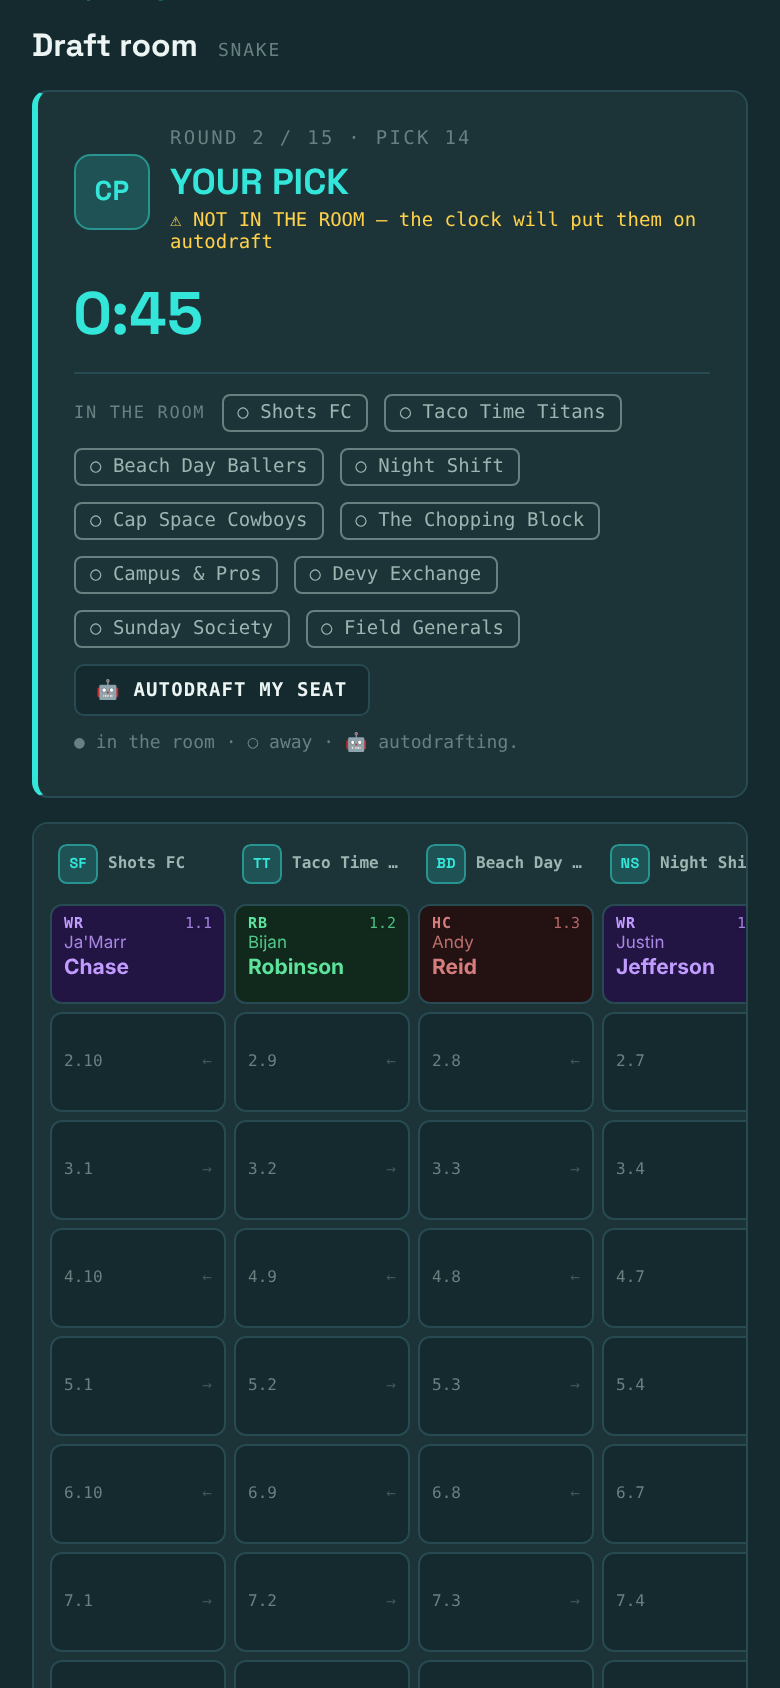
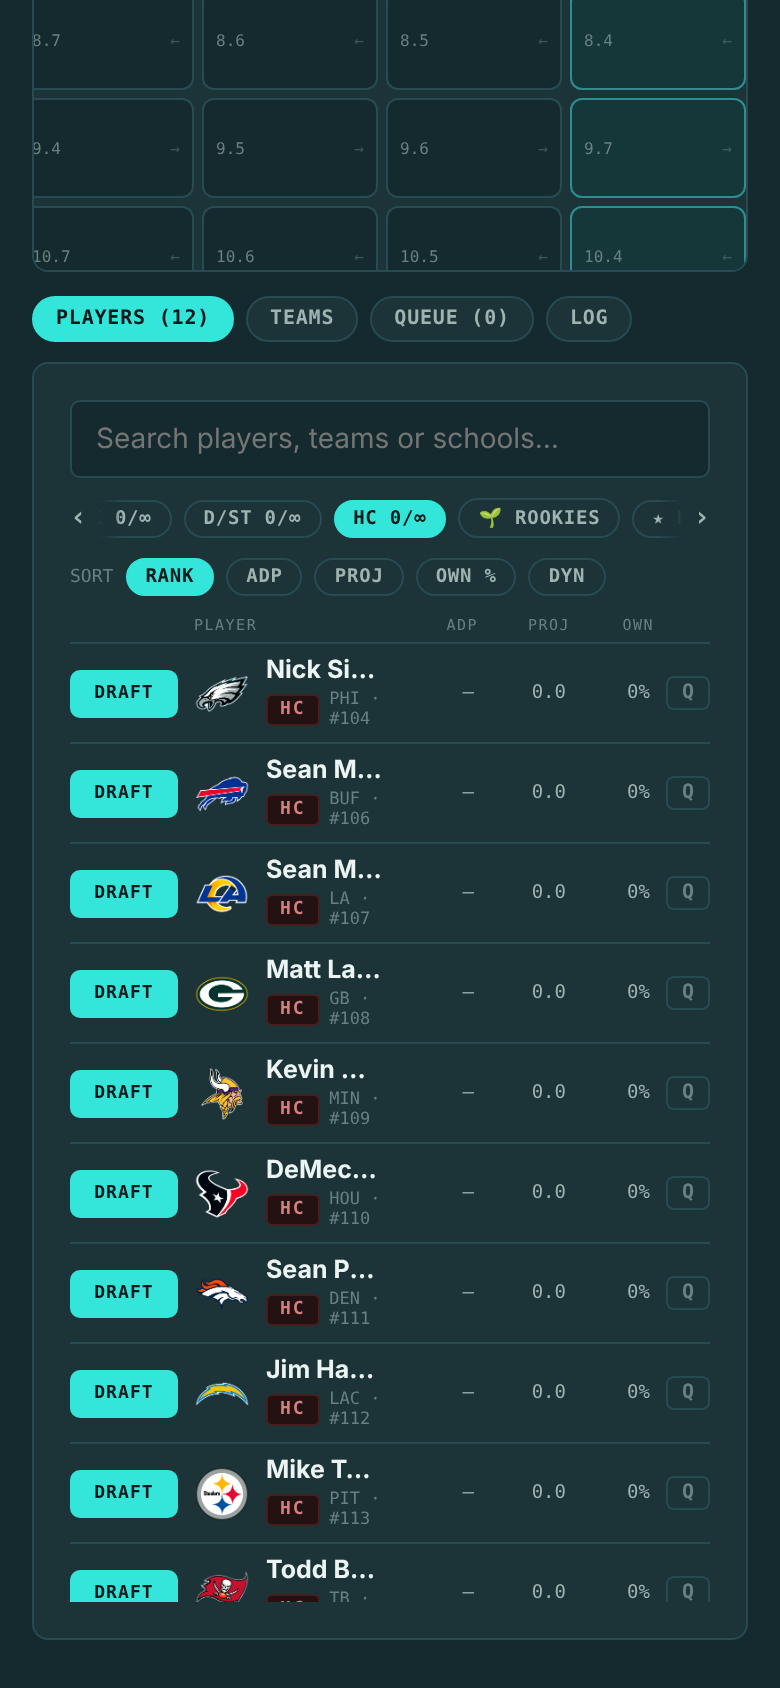
v0.650.3: the funnel's screens are the game, not the settings (#1156)
Founder's list, slot by slot: matchup boards for the redraft, full-college,
mixed-college, golf, Bullseye and best-ball-mix slots; the cap sheet for
contracts; the devy market; the vampire's feeding log; the chop report;
a lineup with an NFC Only spot and a rookie-only superflex that fills
itself; the draft room filtered to head coaches. Scoped bonuses unchanged.

Still stand-ins, shot from this build's web app at phone size against
fixture data (a classic ten-team league on a pre-kick week 5). No real
league was touched; the founder's app screenshots replace them file for
file. The README's table says what each one shows.

Claude-Session: https://claude.ai/code/session_01Ra1P2uYs7L1wujHxgAdth4

diff --git a/packages/core/src/version.ts b/packages/core/src/version.ts
@@ -2,7 +2,7 @@
 // Versioning: 3-part semver, pre-1.0. Bump patch per deploy (0.10.1, 0.10.2…),
 // minor for bigger features (0.11, 0.12…). Segments aren't capped at 9, so 1.0
 // is a deliberate choice, not an automatic rollover.
-export const APP_VERSION = 'v0.650.2';
+export const APP_VERSION = 'v0.650.3';
 
 // Stat data + 2025 NFL play-by-play powering this game comes from Stathead.
 export const DATA_SOURCE = { name: 'Stathead', url: 'https://stathead.app' };

diff --git a/public/brand/funnel/README.md b/public/brand/funnel/README.md
@@ -2,7 +2,7 @@
 
 Phone screenshots for the landing's feature cards (v0.650.0).
 
-**What's here now (v0.650.1) are stand-ins**: the same screens shot from the
+**What's here now (v0.650.3) are stand-ins**: the in-game screens shot from the
 web app at phone size against fixture data, until the founder's app
 screenshots replace them. Overwrite file for file; the names are fixed. Each card
 rotates through its files; a file that isn't here yet shows as a labelled
@@ -16,19 +16,19 @@ frame hides nothing that matters.
 
 | File | Card | Show |
 |---|---|---|
-| `league-redraft.png` | League types | A redraft league's settings or draft board |
-| `league-contract.png` | League types | A contract league: salaries and terms under the cap |
-| `league-full-college.png` | League types | An all-college league (a college roster or player pool) |
-| `league-mixed-college.png` | League types | A mixed NFL + college roster |
-| `league-devy-market.png` | League types | The devy market: shares and prices |
-| `mode-vampire.png` | Competitive modes | A vampire league: the fang on a team, or a bite |
-| `mode-guillotine.png` | Competitive modes | The guillotine panel: who's on the block |
-| `mode-golf.png` | Competitive modes | A golf league's standings (lowest wins) |
-| `mode-bullseye.png` | Competitive modes | A bullseye matchup: the targets and your distance from them |
-| `positions-scoped.png` | Positions | The roster builder with a scoped, named spot ("one rookie WR", "a Cowboy") |
-| `positions-hc-draft.png` | Positions | A draft with head coaches on the board |
-| `scoring-bestball-mix.png` | Scoring options | A lineup mixing best-ball spots and hand-set (non-roster) spots |
-| `scoring-scoped-bonuses.png` | Scoring options | The scoped-bonuses screen |
+| `league-redraft.png` | League types | The classic matchup board, a redraft league |
+| `league-contract.png` | League types | The cap sheet: every deal, its salary and years, under the cap |
+| `league-full-college.png` | League types | A matchup board where every spot is a college player, Saturday games |
+| `league-mixed-college.png` | League types | An NFL matchup board with two college spots beside the nine |
+| `league-devy-market.png` | League types | The devy market: prices, stakes, and BUY |
+| `mode-vampire.png` | Competitive modes | The vampire's feeding log: each win and the bite it earned |
+| `mode-guillotine.png` | Competitive modes | The chop report: one finished week on the block, who fell |
+| `mode-golf.png` | Competitive modes | A golf matchup board: LOW WINS, every starter projected near zero |
+| `mode-bullseye.png` | Competitive modes | A bullseye matchup board: the target per spot and the distance from it |
+| `positions-scoped.png` | Positions | A lineup with an NFC Only spot and a rookie-only superflex that fills itself |
+| `positions-hc-draft.png` | Positions | The draft room with the pool filtered to head coaches |
+| `scoring-bestball-mix.png` | Scoring options | A matchup board mixing best-ball spots (AUTO) with hand-set ones |
+| `scoring-scoped-bonuses.png` | Scoring options | Scoring → Adjustments: the scoped bonuses |
 
 The matchup card rotates the site's existing drip and classic screens in
 `public/brand/` (`shot-drip-live.png`, `shot-sealed.jpg`, `shot-duel.png`,

diff --git a/STATUS.md b/STATUS.md
@@ -22,6 +22,26 @@ Near-daily (git shows daily bursts; season launch Sep 9 is the forcing function)
 
 ## Last worked (superseded entries below)
 
+### v0.650.3 — the funnel's screens are the game, not the settings
+
+> - The front page's rotating screens now show the game itself: matchup boards for redraft, college, mixed, golf, Bullseye and best-ball leagues; the cap sheet; the devy market; the vampire's feeding log; the chop report; a lineup with scoped spots; a draft filtered to head coaches.
+
+Founder's list, slot by slot: "Redraft: matchup board · Contract: contracts
+view · Full college: matchup board with a roster of top college players ·
+Mixed college: NFL board with two college slots · Devy Market · Vampire: bite
+view · Guillotine: chop report · Golf: matchup with players projected close
+to 0 · Bullseye: bullseye matchup board · Scoped: roster with an NFC Only
+spot and a rookie-only SF best ball · HC draft: a draft filtered to HC ·
+Scoring: a matchup with mixed best-ball and set spots · Scoped bonuses as
+is."
+
+Still stand-ins, shot from this build's web app at phone size against
+fixture data (a classic ten-team league on a pre-kick week 5: two full
+lineups, a slate, projections, college games and lines, a cap sheet, a devy
+book, a vampire's season, three chopped seats, a live snake draft). No real
+league was touched; the founder's app screenshots replace them file for
+file. `scoring-scoped-bonuses.png` is unchanged.
+
 ### v0.650.2 — the front page is one column, the screens under the chips
 
 > - The front page's feature cards now run in a single column, each with its rotating phone screen under the chips instead of beside them, so the screens are big enough to read.
